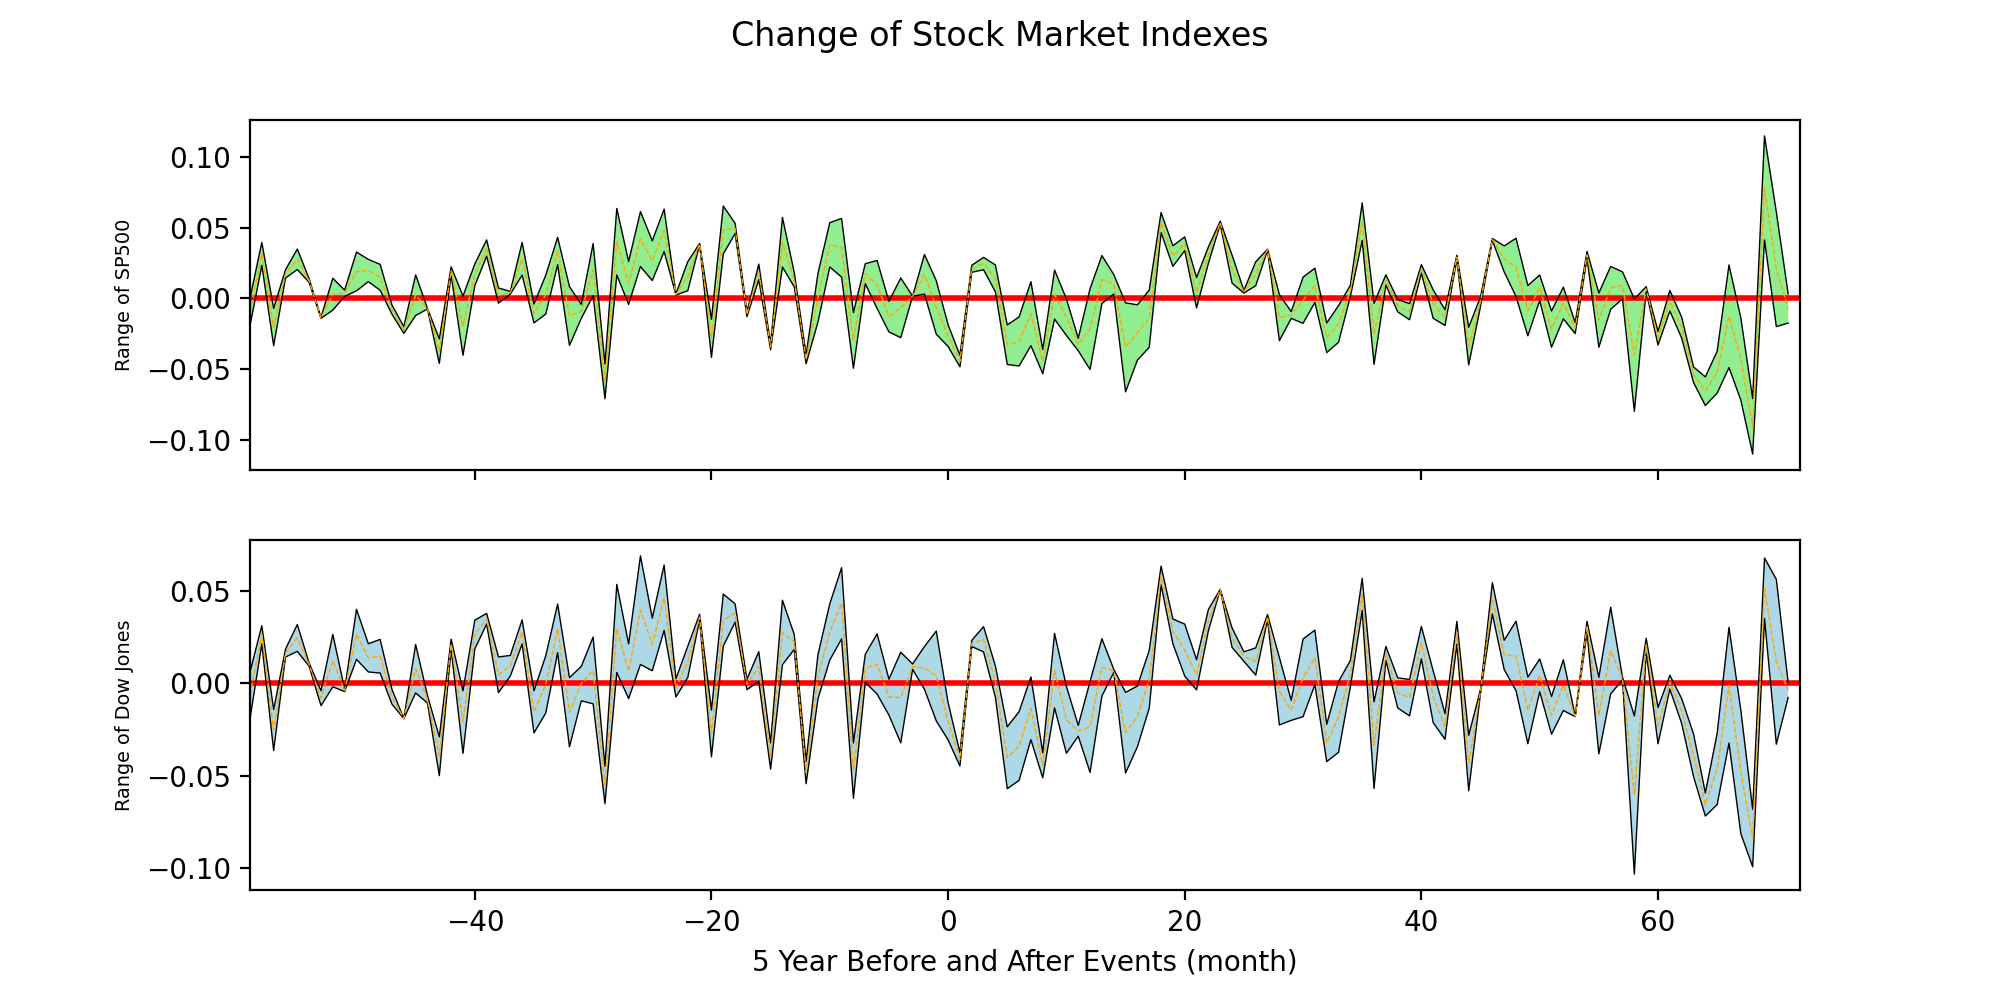
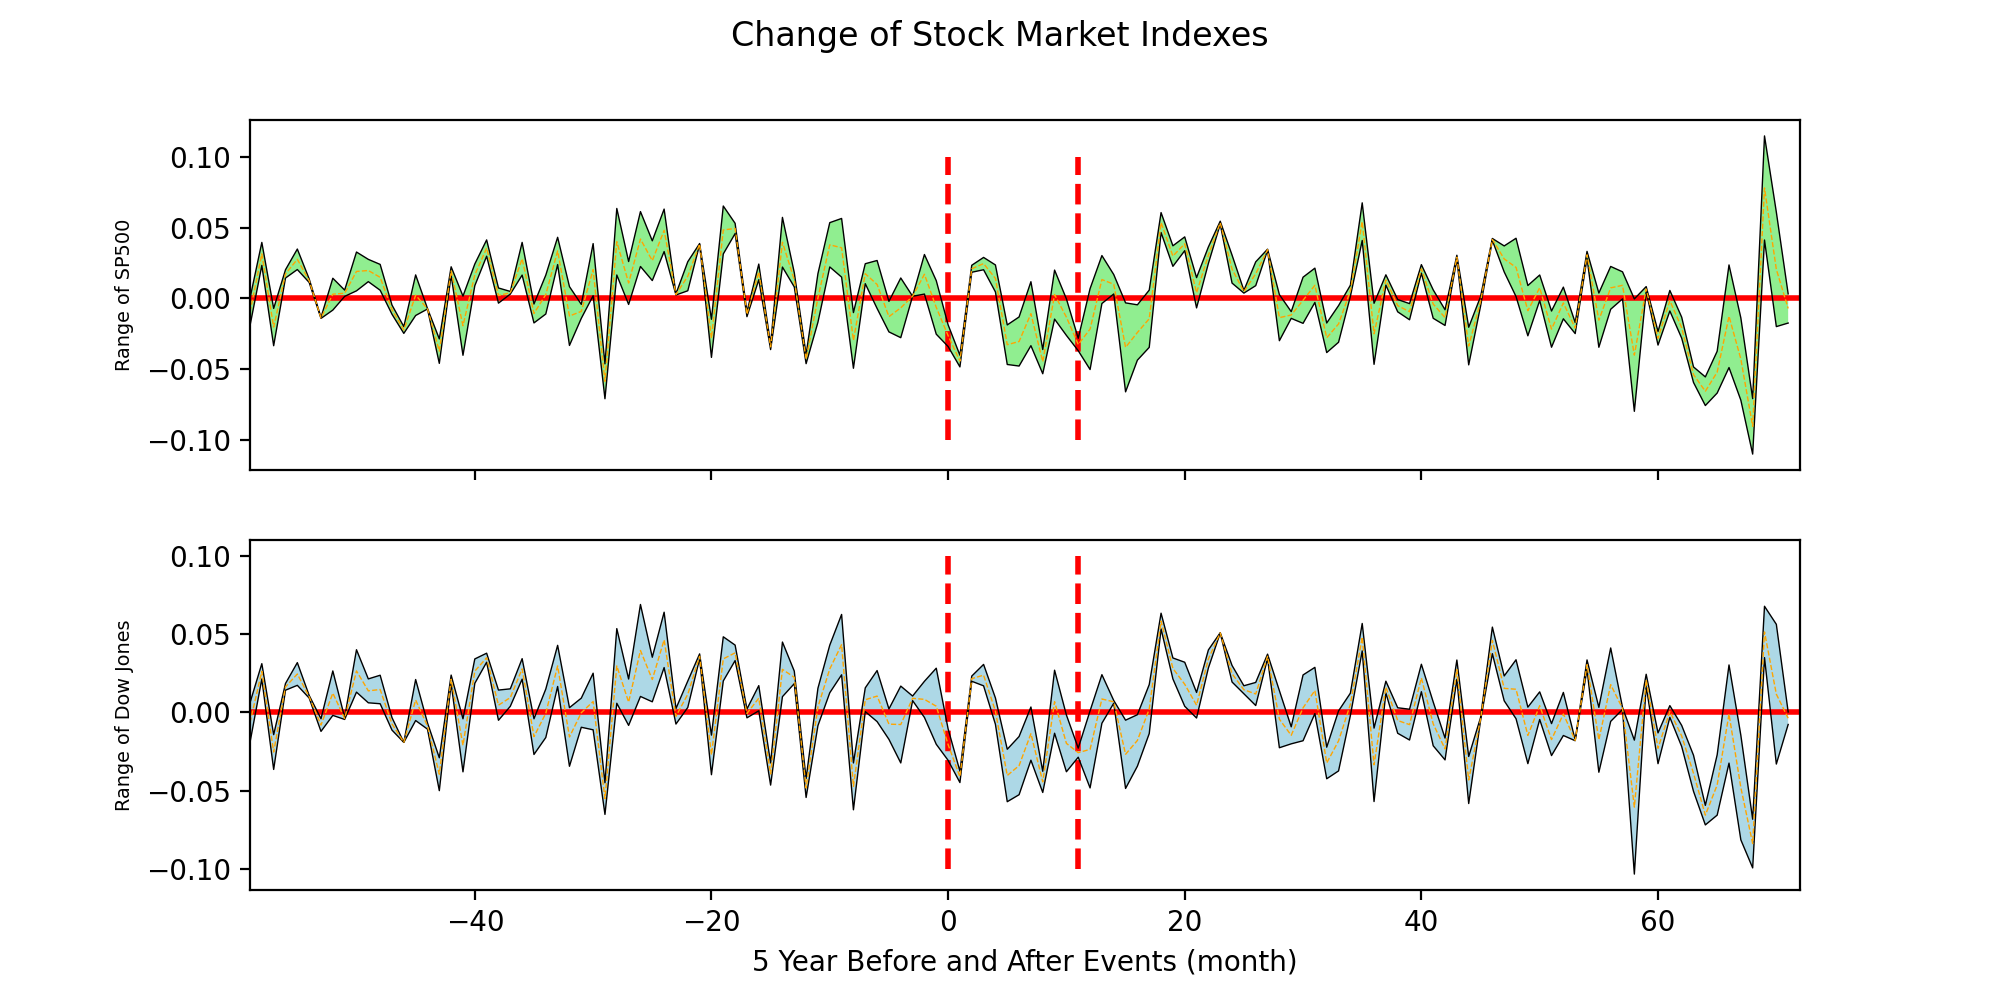
update index plots

Changed region(s): [[0.093, 0.558, 0.899, 0.837], [0.062, 0.775, 0.124, 0.806]]

diff --git a/final_project.py b/final_project.py
@@ -818,6 +818,8 @@ def plot_sp_dj(df1: pd.DataFrame, df2: pd.DataFrame, year_num: int, plot_name: s
     ax3.plot(df1.index, df1["25pct"], color='black', label='25% percentile', linewidth=0.5)
     ax3.plot(df1.index, df1["median"], '--', color='orange', label='median', linewidth=0.5)
     ax3.hlines(y=0, xmin=- (12 * year_num), xmax=12 * (year_num + 1), linewidth=2, color='r')
+    ax3.vlines(x=0, ymin=-0.1, ymax=0.1, linestyles='dashed', linewidth=2, color='r')
+    ax3.vlines(x=11, ymin=-0.1, ymax=0.1, linestyles='dashed', linewidth=2, color='r')
     ax3.fill_between(df1.index, df1["75pct"], df1["25pct"], facecolor='lightgreen')
     ax3.set_ylabel("Range of SP500", fontsize='x-small')
 
@@ -825,6 +827,8 @@ def plot_sp_dj(df1: pd.DataFrame, df2: pd.DataFrame, year_num: int, plot_name: s
     ax4.plot(df2.index, df2["25pct"], color='black', label='25% percentile', linewidth=0.5)
     ax4.plot(df2.index, df2["median"], '--', color='orange', label='median', linewidth=0.5)
     ax4.hlines(y=0, xmin=- (12 * year_num), xmax=12 * (year_num + 1), linewidth=2, color='r')
+    ax4.vlines(x=0, ymin=-0.1, ymax=0.1, linestyles='dashed', linewidth=2, color='r')
+    ax4.vlines(x=11, ymin=-0.1, ymax=0.1, linestyles='dashed', linewidth=2, color='r')
     ax4.fill_between(df2.index, df2["75pct"], df2["25pct"], facecolor='lightblue')
     ax4.set_xlim(-12 * year_num + 1, 12 * (year_num + 1))
     ax4.set_xlabel(str(year_num) + " Year Before and After Events (month)")
@@ -1048,9 +1052,9 @@ def analyze_index(sp500_file: str, dowjones_file: str, events_file: str):
     print("2. If we use the year before the event end year as zero point, and select the nominal SP500 and "
           "Dow Jones historical data 10 years before and after the zero point year, plots would be")
     output_sp_dj(event_df, sp_df, dj_df, "year_before_end_year", 10, "nominal")
-    print("3. If we use the year after the event start year as zero point, and select the real SP500 and "
-          "Dow Jones historical data 10 years before and after the zero point year, plots would be")
-    output_sp_dj(event_df, sp_df, dj_df, "year_after_start_year", 10, "real")
+    print("3. If we use the event start year as zero point, and select the real SP500 and "
+          "Dow Jones historical data 5 years before and after the zero point year, plots would be")
+    output_sp_dj(event_df, sp_df, dj_df, "start_year", 5, "real")
     print("4. If we use the year before the event end year as zero point, and select the inflation adjusted SP500 and "
           "Dow Jones historical data 5 years before and after the zero point year, plots would be")
     output_sp_dj(event_df, sp_df, dj_df, "year_before_end_year", 5, "real")

diff --git a/README.md b/README.md
@@ -109,38 +109,44 @@ Plotting the quartiles and means calculated for all pandemics and all wars:
 ['Korean War', 'Vietnam War', 'World War II', 'War in Somalia']
 ![alt text](Plots/StockIndex/10y_year_before_end_year_real_wars_over_1m_fatalities.png)
 
-2. If we use the year after the event start year as zero point, and select the real SP500 and Dow Jones historical data 10 years before and after the zero point year, plots would be
-
-* The evolution of real SP500 and Dow Jones 10 years before and after all the Pandemics:
-['Asian Flu', 'Hong Kong Flu', 'London flu', 'Russian flu', 'HIV AIDS pandemic', 'SARS outbreak', 'Swine flu pandemic']
-![alt text](Plots/StockIndex/10y_year_after_start_year_real_all_pandemics.png)
-
-* The evolution of real SP500 and Dow Jones 10 years before and after all the Wars:
-['Korean War', 'Vietnam War', 'World War II', 'Gulf War', 'Civil war in Afghanistan', 'War on Terror', 'Iraq War', 'War in Somalia']
-![alt text](Plots/StockIndex/10y_year_after_start_year_real_all_wars.png)
-
-* The evolution of real SP500 and Dow Jones 10 years before and after Pandemics with over 1m fatalities:
-['Asian Flu', 'Hong Kong Flu', 'HIV AIDS pandemic']
-![alt text](Plots/StockIndex/10y_year_after_start_year_real_pandemics_over_1m_fatalities.png)
-
-* The evolution of real SP500 and Dow Jones 10 years before and after Wars with over 1m fatalities:
-['Korean War', 'Vietnam War', 'World War II', 'War in Somalia']
-![alt text](Plots/StockIndex/10y_year_after_start_year_real_wars_over_1m_fatalities.png)
-
-3. If we use the year before the event end year as zero point, and select the inflation adjusted SP500 and Dow Jones historical data 5 years before and after the zero point year, plots would be
+2. If we use the event start year as zero point, and select the real SP500 and Dow Jones historical data 5 years before and after the zero point year, plots would be
 
 * The evolution of real SP500 and Dow Jones 5 years before and after all the Pandemics:
-['Asian Flu', 'Hong Kong Flu', 'London flu', 'Russian flu', 'SARS outbreak', 'Swine flu pandemic', 'Western African Ebola virus epidemic']
-![alt text](Plots/StockIndex/5y_year_before_end_year_real_all_pandemics.png)
+['Asian Flu', 'Hong Kong Flu', 'London flu', 'Russian flu', 'HIV AIDS pandemic', 'SARS outbreak', 'Swine flu pandemic']
+![alt text](Plots/StockIndex/5y_start_year_real_all_pandemics.png)
 
 * The evolution of real SP500 and Dow Jones 5 years before and after all the Wars:
-['Korean War', 'Vietnam War', 'World War II', 'Gulf War', 'Civil war in Afghanistan', 'Iraq War']
-![alt text](Plots/StockIndex/5y_year_before_end_year_real_all_wars.png)
-
+['Korean War', 'Vietnam War', 'World War II', 'Gulf War', 'Civil war in Afghanistan', 'War on Terror', 'Iraq War', 'War in Somalia']
+![alt text](Plots/StockIndex/5y_start_year_real_all_wars.png)
 
 * The evolution of real SP500 and Dow Jones 5 years before and after Pandemics with over 1m fatalities:
-['Asian Flu', 'Hong Kong Flu']
-![alt text](Plots/StockIndex/5y_year_before_end_year_real_pandemics_over_1m_fatalities.png)
+['Asian Flu', 'Hong Kong Flu', 'HIV AIDS pandemic']
+![alt text](Plots/StockIndex/5y_start_year_real_pandemics_over_1m_fatalities.png)
+
+* The evolution of real SP500 and Dow Jones 5 years before and after Wars with over 1m fatalities:
+['Korean War', 'Vietnam War', 'World War II', 'War in Somalia']
+![alt text](Plots/StockIndex/5y_start_year_real_wars_over_1m_fatalities.png)
+
+[comment]: <> (3. If we use the year before the event end year as zero point, and select the inflation adjusted SP500 and Dow Jones historical data 5 years before and after the zero point year, plots would be)
+
+[comment]: <> (* The evolution of real SP500 and Dow Jones 5 years before and after all the Pandemics:)
+
+[comment]: <> (['Asian Flu', 'Hong Kong Flu', 'London flu', 'Russian flu', 'SARS outbreak', 'Swine flu pandemic', 'Western African Ebola virus epidemic'])
+
+[comment]: <> (![alt text]&#40;Plots/StockIndex/5y_year_before_end_year_real_all_pandemics.png&#41;)
+
+[comment]: <> (* The evolution of real SP500 and Dow Jones 5 years before and after all the Wars:)
+
+[comment]: <> (['Korean War', 'Vietnam War', 'World War II', 'Gulf War', 'Civil war in Afghanistan', 'Iraq War'])
+
+[comment]: <> (![alt text]&#40;Plots/StockIndex/5y_year_before_end_year_real_all_wars.png&#41;)
+
+
+[comment]: <> (* The evolution of real SP500 and Dow Jones 5 years before and after Pandemics with over 1m fatalities:)
+
+[comment]: <> (['Asian Flu', 'Hong Kong Flu'])
+
+[comment]: <> (![alt text]&#40;Plots/StockIndex/5y_year_before_end_year_real_pandemics_over_1m_fatalities.png&#41;)
 
 
 * The evolution of real SP500 and Dow Jones 5 years before and after Wars with over 1m fatalities:
